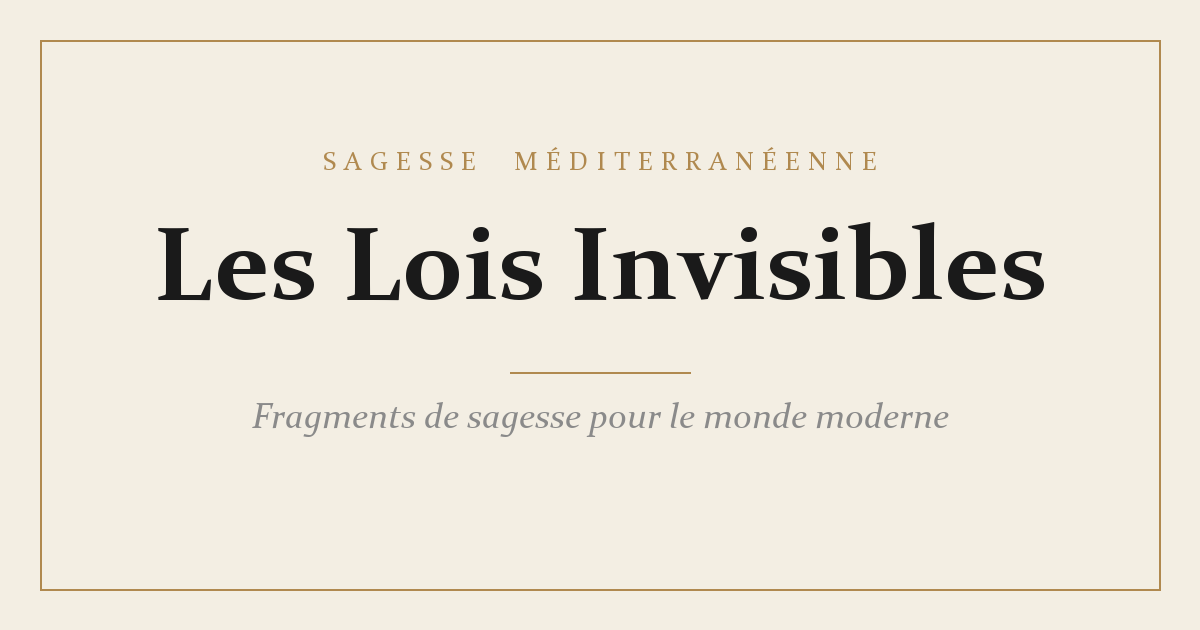
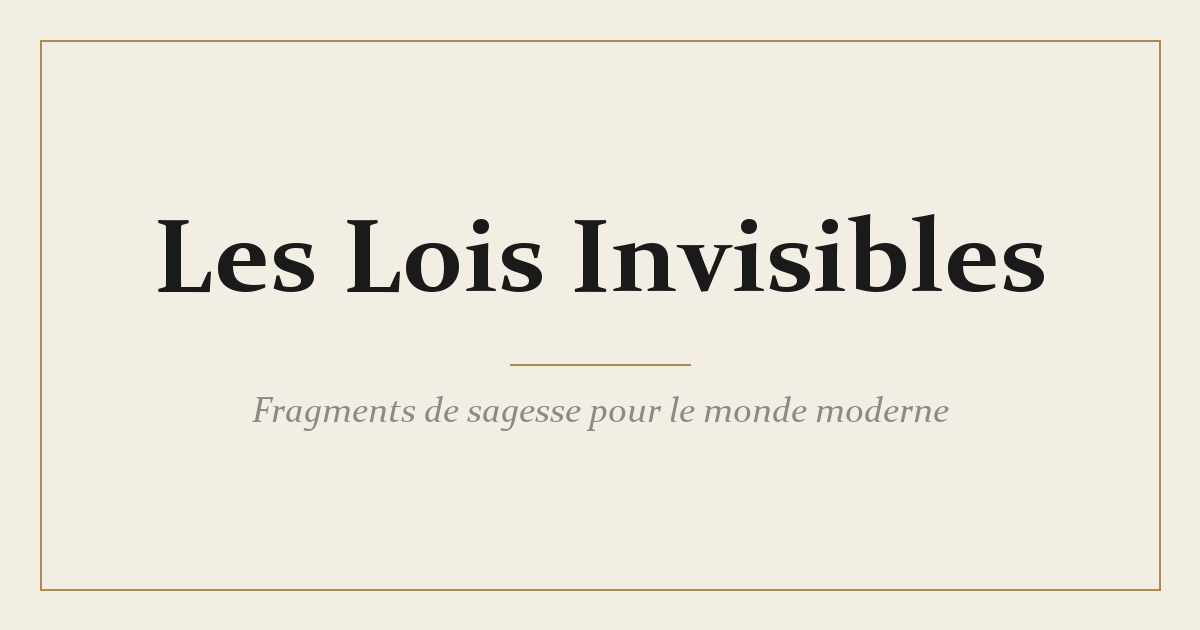
Intitule autonome : supprimer "un projet de Sagesse Mediterraneenne" (FR/EN/ES)
Le site est presente comme une oeuvre editoriale autonome.
Intitule officiel = titre + sous-titre :
  FR Les Lois Invisibles  - Fragments de sagesse pour le monde moderne
  EN The Invisible Laws   - Fragments of wisdom for the modern world
  ES Las Leyes Invisibles - Fragmentos de sabiduria para el mundo moderno

i18n (dictionary.ts) :
- suppression des cles eco.name ("Sagesse Mediterraneenne"/"Mediterranean
  Wisdom"/"Sabiduria Mediterranea") et signature.prefix ("un projet de"/
  "a project of"/"un proyecto de").
- ajout de work.subtitle (FR/EN/ES).

Haut de page :
- header.tsx : retrait de l-eyebrow ecosysteme + du bloc signature
  "un projet de..." ; ajout du sous-titre officiel sous le titre.
- book-view.tsx (/livre) : retrait de l-eyebrow ecosysteme.
- recevoir/page.tsx : eyebrow ecosysteme -> titre de l-oeuvre.
- apercu/page.tsx : "Sagesse Mediterraneenne" -> "Les Lois Invisibles".

Bas de page :
- footer.tsx + manifeste/page.tsx : signature -> work.title + work.subtitle.

Metadonnees (layout.tsx) : title/description/OpenGraph/Twitter/keywords
sans "un projet de Sagesse Mediterraneenne".

Image OG (public/og-livre.png) regeneree sans l-eyebrow "Sagesse
Mediterraneenne".

Conserve volontairement : manifesto.socle (texte de corps expliquant
l-heritage mediterraneen comme source) - contenu, pas une signature.

Verifie : home/livre/recevoir/manifeste, FR/EN/ES, haut + bas coherents,
aucun terme banni. TypeScript 0 erreur. Preview only : aucun merge,
[…]

diff --git a/lib/i18n/dictionary.ts b/lib/i18n/dictionary.ts
@@ -2,19 +2,18 @@ import type { Language } from "@/types/quote";
 
 /**
  * Dictionnaire i18n maison — toutes les chaînes d'interface en fr/en/es.
- * Règle : le titre de l'œuvre ET le nom de l'écosystème sont TRADUITS selon la langue
- * (l'œuvre existe vraiment dans chaque langue, pas comme un site FR traduit).
- *   FR : Les Lois Invisibles      / Sagesse Méditerranéenne
- *   EN : The Invisible Laws       / Mediterranean Wisdom
- *   ES : Las Leyes Invisibles     / Sabiduría Mediterránea
+ * L'œuvre est présentée comme une œuvre éditoriale AUTONOME (pas « un projet de… »).
+ * Intitulé officiel = le titre + le sous-titre, traduits selon la langue :
+ *   FR : Les Lois Invisibles  — Fragments de sagesse pour le monde moderne
+ *   EN : The Invisible Laws   — Fragments of wisdom for the modern world
+ *   ES : Las Leyes Invisibles — Fragmentos de sabiduría para el mundo moderno
  */
 
 export type I18nKey =
   | "work.title"
-  | "eco.name"
+  | "work.subtitle"
   | "site.tagline"
   | "site.intro"
-  | "signature.prefix"
   | "nav.home"
   | "nav.book"
   | "nav.manifesto"
@@ -37,10 +36,9 @@ export type I18nKey =
 export const dict: Record<Language, Record<I18nKey, string>> = {
   fr: {
     "work.title": "Les Lois Invisibles",
-    "eco.name": "Sagesse Méditerranéenne",
+    "work.subtitle": "Fragments de sagesse pour le monde moderne",
     "site.tagline": "Une sagesse ancienne relue pour les failles du monde moderne.",
     "site.intro": "Des fragments pour comprendre ce que les anciens textes savaient déjà de l’homme.",
-    "signature.prefix": "un projet de",
     "nav.home": "Accueil",
     "nav.book": "Le Livre",
     "nav.manifesto": "Manifeste",
@@ -64,10 +62,9 @@ export const dict: Record<Language, Record<I18nKey, string>> = {
   },
   en: {
     "work.title": "The Invisible Laws",
-    "eco.name": "Mediterranean Wisdom",
+    "work.subtitle": "Fragments of wisdom for the modern world",
     "site.tagline": "Ancient wisdom reread for the fractures of the modern world.",
     "site.intro": "Fragments to grasp what the old texts already knew about man.",
-    "signature.prefix": "a project of",
     "nav.home": "Home",
     "nav.book": "The Book",
     "nav.manifesto": "Manifesto",
@@ -91,10 +88,9 @@ export const dict: Record<Language, Record<I18nKey, string>> = {
   },
   es: {
     "work.title": "Las Leyes Invisibles",
-    "eco.name": "Sabiduría Mediterránea",
+    "work.subtitle": "Fragmentos de sabiduría para el mundo moderno",
     "site.tagline": "Una sabiduría antigua releída para las grietas del mundo moderno.",
     "site.intro": "Fragmentos para comprender lo que los textos antiguos ya sabían del hombre.",
-    "signature.prefix": "un proyecto de",
     "nav.home": "Inicio",
     "nav.book": "El Libro",
     "nav.manifesto": "Manifiesto",

diff --git a/app/layout.tsx b/app/layout.tsx
@@ -19,21 +19,21 @@ const inter = Inter({
 
 export const metadata: Metadata = {
   metadataBase: new URL("https://project-7coik.vercel.app"),
-  // Nom public = "Les Lois Invisibles" (l'œuvre). "Sagesse Méditerranéenne" = écosystème.
+  // Œuvre éditoriale autonome. Intitulé officiel = titre + sous-titre.
   title: {
-    default: "Les Lois Invisibles — Sagesse Méditerranéenne",
+    default: "Les Lois Invisibles — Fragments de sagesse pour le monde moderne",
     template: "%s · Les Lois Invisibles",
   },
   applicationName: "Les Lois Invisibles",
   description:
-    "Les Lois Invisibles — une sagesse ancienne relue pour les failles du monde moderne. Un projet de Sagesse Méditerranéenne.",
-  keywords: ["Les Lois Invisibles", "Sagesse Méditerranéenne", "sagesse", "méditerranée", "fragments", "aphorismes", "wisdom", "philosophy"],
+    "Les Lois Invisibles — fragments de sagesse pour le monde moderne. Une sagesse ancienne relue pour les failles du monde moderne.",
+  keywords: ["Les Lois Invisibles", "fragments de sagesse", "sagesse", "fragments", "aphorismes", "wisdom", "philosophy"],
   authors: [{ name: "Les Lois Invisibles" }],
   openGraph: {
     title: "Les Lois Invisibles",
     siteName: "Les Lois Invisibles",
     description:
-      "Une sagesse ancienne relue pour les failles du monde moderne. Un projet de Sagesse Méditerranéenne.",
+      "Fragments de sagesse pour le monde moderne — une sagesse ancienne relue pour les failles du monde moderne.",
     type: "website",
     url: "/",
     locale: "fr_FR",
@@ -42,7 +42,7 @@ export const metadata: Metadata = {
     card: "summary",
     title: "Les Lois Invisibles",
     description:
-      "Une sagesse ancienne relue pour les failles du monde moderne. Un projet de Sagesse Méditerranéenne.",
+      "Fragments de sagesse pour le monde moderne — une sagesse ancienne relue pour les failles du monde moderne.",
   },
 };
 

diff --git a/components/header.tsx b/components/header.tsx
@@ -7,15 +7,15 @@ export function Header() {
 
   return (
     <header className="w-full py-8 md:py-12 text-center">
-      {/* Écosystème — signature au-dessus du titre */}
-      <p className="text-sm tracking-[0.2em] uppercase text-muted-foreground font-normal mb-4">
-        {t("eco.name")}
-      </p>
-
       {/* Œuvre — titre principal (traduit selon la langue) */}
       <h1 className="text-4xl md:text-5xl lg:text-6xl font-semibold text-foreground tracking-tight text-balance">
         {t("work.title")}
       </h1>
+
+      {/* Sous-titre officiel de l'œuvre */}
+      <p className="mt-3 text-sm md:text-base tracking-[0.12em] uppercase text-muted-foreground font-normal">
+        {t("work.subtitle")}
+      </p>
 
       {/* Intention éditoriale — taille et contraste renforcés (lisible en mode sombre) */}
       <p className="mt-5 md:mt-6 text-xl md:text-2xl text-foreground font-normal leading-relaxed max-w-2xl mx-auto text-pretty">
@@ -23,11 +23,6 @@ export function Header() {
       </p>
       <p className="mt-3 text-base md:text-lg text-muted-foreground font-normal leading-relaxed max-w-xl mx-auto text-pretty">
         {t("site.intro")}
-      </p>
-
-      {/* Signature écosystème */}
-      <p className="mt-4 text-sm tracking-wide text-muted-foreground font-normal">
-        {t("signature.prefix")} {t("eco.name")}
       </p>
     </header>
   );

diff --git a/app/manifeste/page.tsx b/app/manifeste/page.tsx
@@ -45,7 +45,7 @@ export default function ManifestePage() {
           {/* Signature écosystème */}
           <div className="mt-14 md:mt-20 pt-8 border-t border-border text-center">
             <p className="text-base text-muted-foreground font-normal tracking-wide">
-              <span className="text-foreground">{t("work.title")}</span> — {t("signature.prefix")} {t("eco.name")}
+              <span className="text-foreground">{t("work.title")}</span> — {t("work.subtitle")}
             </p>
             <div className="mt-8 flex flex-wrap justify-center gap-4">
               <Link

diff --git a/components/book-view.tsx b/components/book-view.tsx
@@ -202,7 +202,6 @@ export function BookView() {
 
           {/* 1 — Hero */}
           <header className="mb-16 md:mb-24 text-center">
-            <p className="text-sm tracking-[0.2em] uppercase text-muted-foreground mb-4">{t("eco.name")}</p>
             <h1 className="text-4xl md:text-5xl lg:text-6xl font-semibold text-foreground tracking-tight mb-5">{t("work.title")}</h1>
             <p className="text-base md:text-lg text-muted-foreground mb-6">{s.subtitle}</p>
             <div className="mx-auto mb-8 flex justify-center">

diff --git a/app/apercu/page.tsx b/app/apercu/page.tsx
@@ -245,7 +245,7 @@ export default function ApercuPage() {
           {/* En-tête — bandeau "aperçu de travail" */}
           <div className="mb-12 md:mb-16 text-center">
             <p className="text-xs tracking-[0.2em] uppercase text-muted-foreground/80 font-light mb-4">
-              Sagesse Méditerranéenne
+              Les Lois Invisibles
             </p>
             <h1 className="text-3xl md:text-4xl lg:text-5xl font-semibold text-foreground tracking-tight mb-6">
               Aperçu éditorial

diff --git a/app/recevoir/page.tsx b/app/recevoir/page.tsx
@@ -76,7 +76,7 @@ export default function RecevoirPage() {
           {/* En-tête */}
           <div className="mb-10 md:mb-12 text-center">
             <p className="text-sm tracking-[0.2em] uppercase text-muted-foreground font-normal mb-4">
-              {t("eco.name")}
+              {t("work.title")}
             </p>
             <h1 className="text-3xl md:text-4xl lg:text-5xl font-semibold text-foreground tracking-tight">
               {s.title}

diff --git a/components/footer.tsx b/components/footer.tsx
@@ -24,7 +24,7 @@ export function Footer() {
         </Link>
       </nav>
       <p className="text-sm text-muted-foreground font-normal tracking-wide">
-        <span className="text-foreground">{t("work.title")}</span> — {t("signature.prefix")} {t("eco.name")}
+        <span className="text-foreground">{t("work.title")}</span> — {t("work.subtitle")}
       </p>
     </footer>
   );
